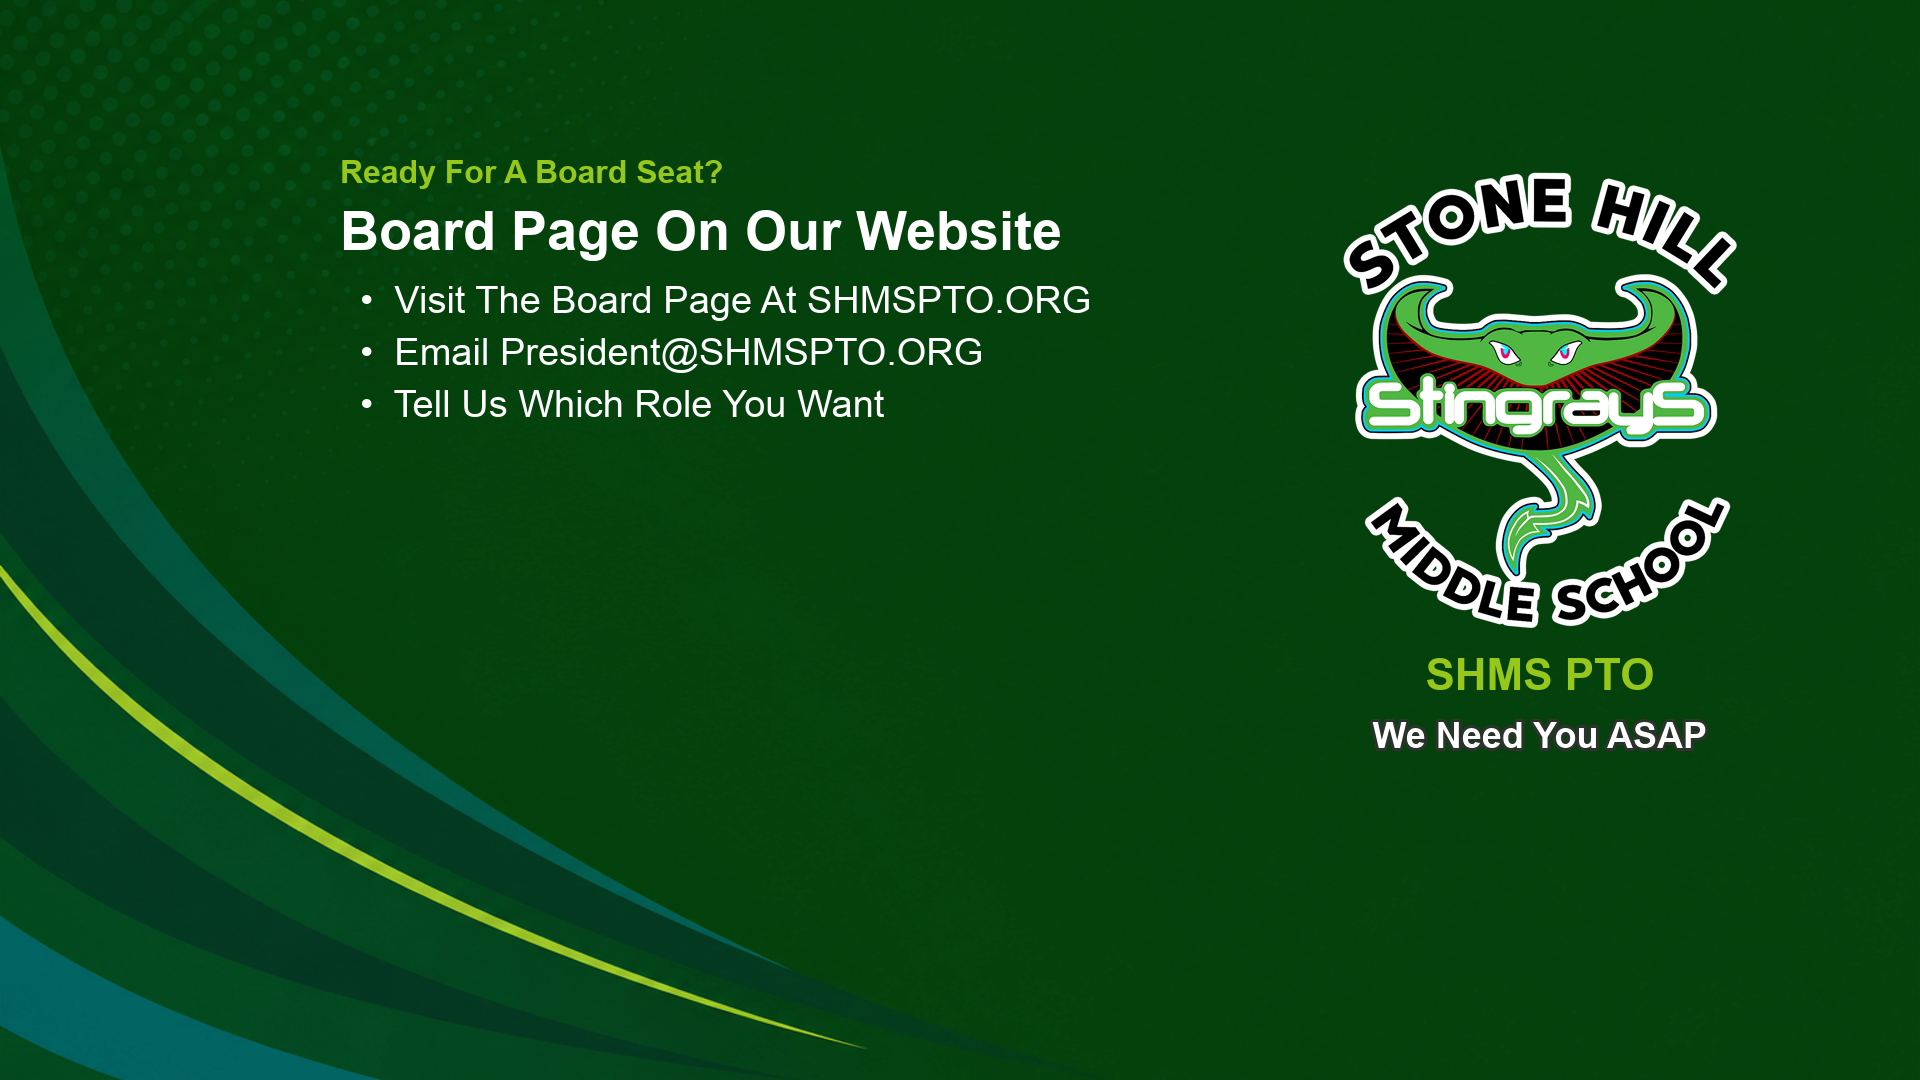
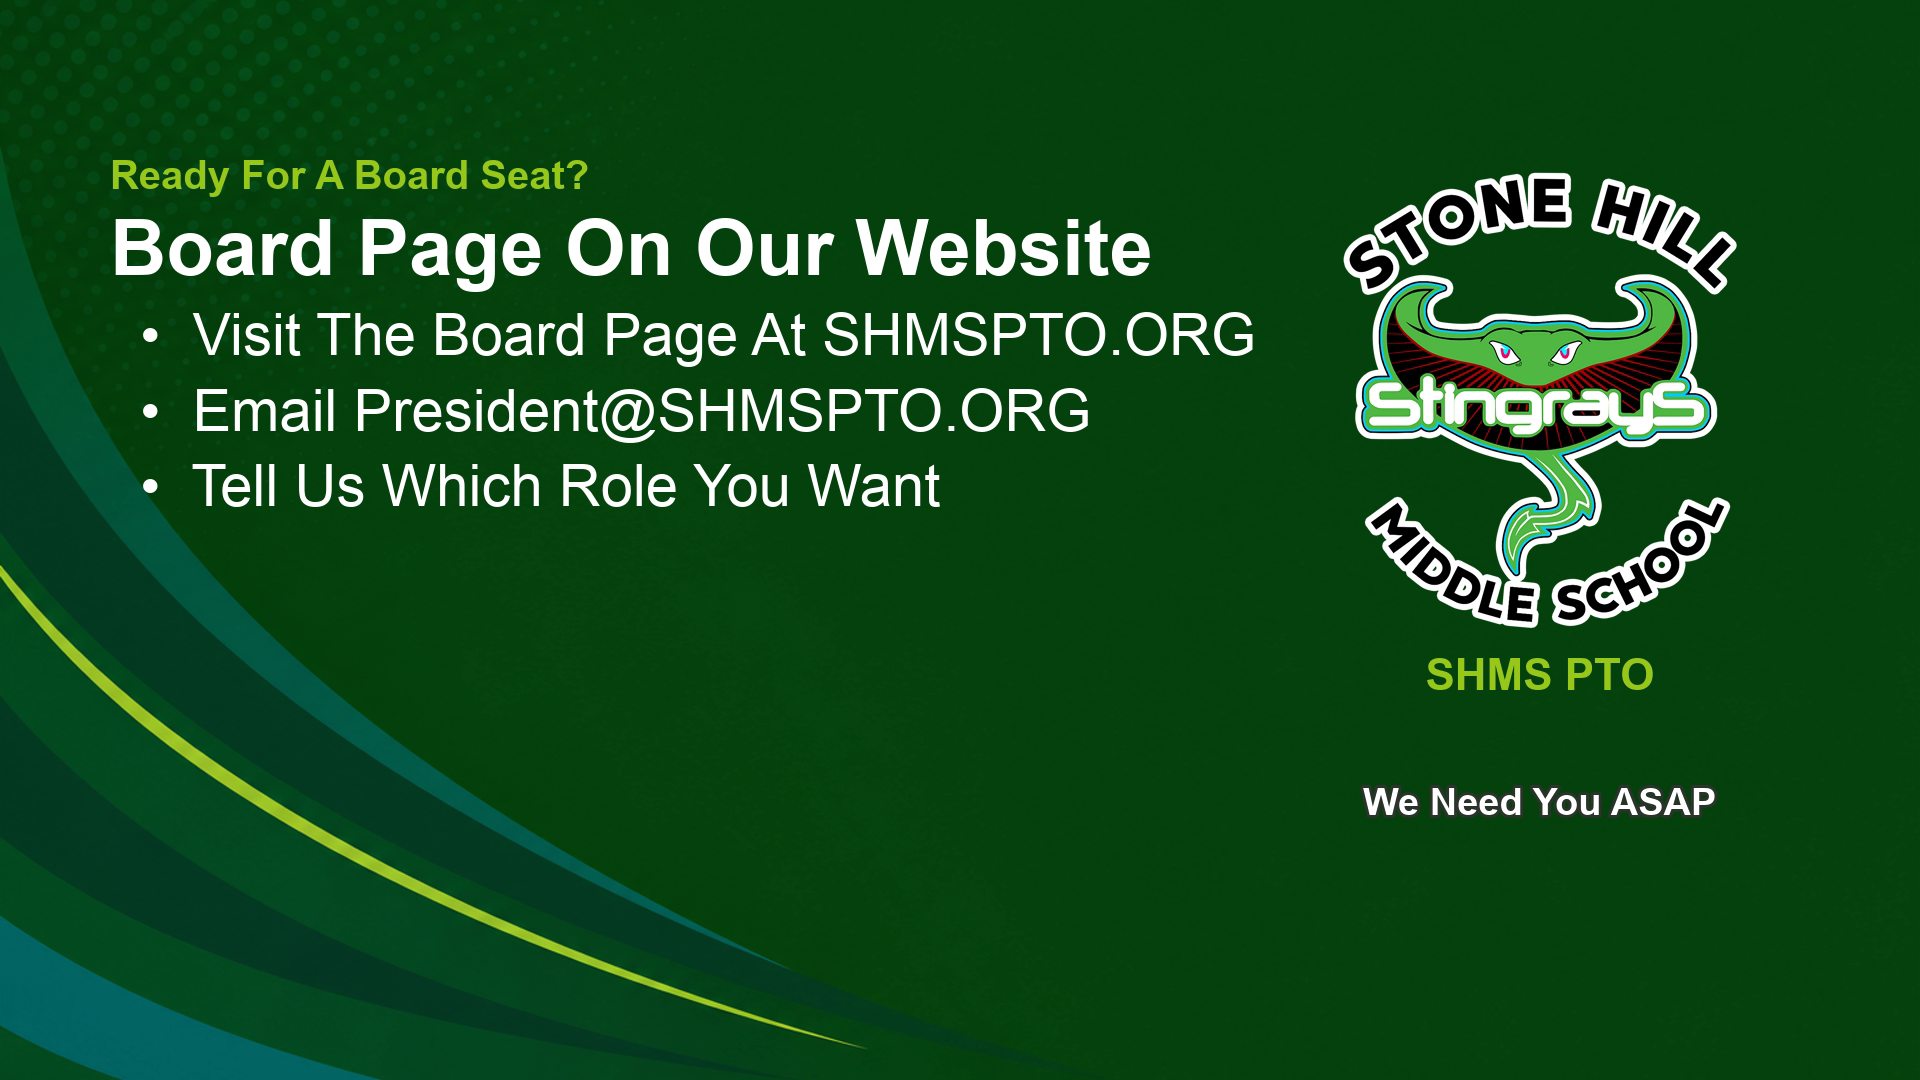
fix(board-recruit): larger left-column type; drop commitment under seal.
Fill the safe landscape for role copy while keeping glyphs clear of the waves.

Changed region(s): [[0.0625, 0.1528, 0.6562, 0.4889], [0.6875, 0.6417, 0.9062, 0.7639]]

diff --git a/promo-videos/scripts/assemble_board_recruit.js b/promo-videos/scripts/assemble_board_recruit.js
@@ -51,15 +51,16 @@ const PAD = 0.9;
 const TAIL_PAD = 1.2;
 
 /**
- * Site bg waves hug bottom-left (measured): at y=640 wave reaches ~x293;
- * at y=520 ~x162. Park copy in mid landscape, ABOVE the crest.
+ * Left copy owns the open landscape (big, readable). Stay above wave crest.
+ * At TEXT_X≈120, wave encroaches ~y520+; keep content under WAVE_SAFE_MAX_Y.
  */
-const TEXT_X = 340;   // clear of left wave rise
-const BULLET_X = 360;
-const WAVE_SAFE_MAX_Y = 620; // above wave at this TEXT_X
+const TEXT_X = 110;
+const BULLET_X = 140;
+/** Bottom of glyphs must stay above this (wave crest at TEXT_X≈110) */
+const WAVE_SAFE_MAX_Y = 540;
 const CONTENT_MAX_Y = WAVE_SAFE_MAX_Y;
-/** Commitment / footers: under seal on the right — clear of all waves */
-const FOOTER_Y = LABEL_Y + 64;
+/** Commitment under seal — dropped for breathing room below SHMS PTO */
+const FOOTER_Y = LABEL_Y + 130;
 
 const BEATS = [
   { part: 'vo/_parts/board_p01_open.m4a', still: 'assets/board-recruit/slide_open.png', caption: 'Five Board Seats Open' },
@@ -129,30 +130,42 @@ function makeSlide(outName, { eyebrow, title, bullets = [], footer }) {
     y: LABEL_Y,
   });
 
-  // Mid-landscape column — same top as logo; never into bottom-left waves
+  // Left column — same top as logo; fill the frame (readable on phone)
   let y = TEXT_TOP;
   if (eyebrow) {
-    addText(eyebrow, { size: 32, color: '0x98C818', x: TEXT_X, y });
-    y += 50;
+    addText(eyebrow, { size: 40, color: '0x98C818', x: TEXT_X, y });
+    y += 58;
   }
+  // Dense lists keep a slightly smaller title so every bullet still fits
+  let titleSize = title.length > 28 ? 68 : title.length > 18 ? 78 : 88;
+  if (bullets.length >= 5) titleSize = Math.min(titleSize, 72);
   addText(title, {
-    size: title.length > 24 ? 54 : 62,
+    size: titleSize,
     color: 'white',
     x: TEXT_X,
     y,
   });
-  y += 76;
+  y += Math.round(titleSize * 1.2);
 
+  // Partition safe band so every bullet fits; role slides (≤3) get largest type
+  const slots = Math.max(bullets.length, 1);
+  const room = Math.max(CONTENT_MAX_Y - y, 120);
+  const bulletStep = Math.floor(room / slots);
+  const bulletSize = Math.min(
+    bullets.length <= 3 ? 58 : 48,
+    Math.max(40, bulletStep - 14),
+  );
   for (const b of bullets) {
-    if (y > CONTENT_MAX_Y) break;
-    addText(`•  ${b}`, { size: 38, color: 'white', x: BULLET_X, y, bold: false });
-    y += 52;
+    // Glyph bottoms must clear the wave crest
+    if (y + bulletSize > CONTENT_MAX_Y) break;
+    addText(`•  ${b}`, { size: bulletSize, color: 'white', x: BULLET_X, y, bold: false });
+    y += bulletStep;
   }
   if (footer) {
-    // Under logo in clear landscape — never on bottom-left waves (mobile-readable)
+    // Under seal, dropped below SHMS PTO — clear of waves
     const tag = `v${n++}`;
     parts.push(
-      `[${last}]drawtext=fontfile=${fontB}:text='${esc(footer)}':fontsize=36:fontcolor=white:` +
+      `[${last}]drawtext=fontfile=${fontB}:text='${esc(footer)}':fontsize=38:fontcolor=white:` +
       `borderw=3:bordercolor=black@0.8:x=${LOGO_CX}-text_w/2:y=${FOOTER_Y}[${tag}]`
     );
     last = tag;
